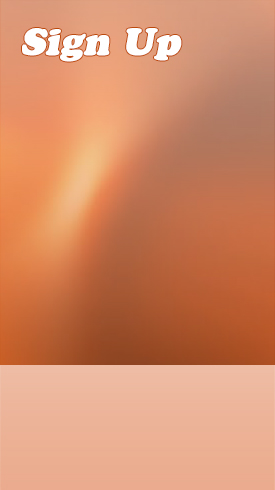
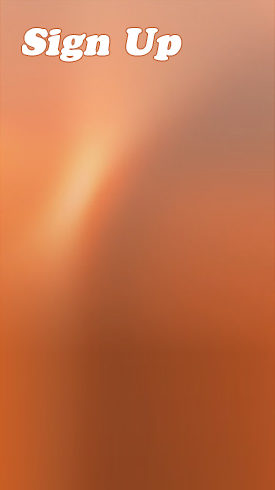
uodated

Changed region(s): [[0.0, 0.7347, 1.0, 1.0]]

diff --git a/wartisan/index.html b/wartisan/index.html
@@ -11,8 +11,12 @@
 
 <body>
 <div id="main">
-	<div id="container">
+	<div class="container">
     	<div class="header"></div> 
+    </div>
+    <div class="scenter">
+	<div style="width:100%;height:10px;"></div>
+    <div class="container">
         <div class="content">
         	<div class="conleft">
                 
@@ -20,7 +24,7 @@
                         <input id="submit" type="submit" name="submit" value="">
                 
                 <div class="context">
-                <p>Send us your email address and we'll sign you up for our beta program and update you with our progress.</p>
+                <p>Send us your email address and we'll sign you up for our beta program and get your feedback!</p>
                 <p><i>Please see our <a href="privacy.html">privacy policy</a> to learn how we store your information.</i></p>
                 </div>	
             </div>
@@ -30,15 +34,66 @@
 <img style="visibility:hidden;width:0px;height:0px;" border=0 width=0 height=0 src="http://c.gigcount.com/wildfire/IMP/CXNID=2000002.0NXC/bT*xJmx*PTEzNzE4MDU*Njc3MDEmcHQ9MTM3MTgwNTQ3MTczMiZwPTE4MjU5MSZkPSZnPTImbz*5M2FmZGU3NDY1NWM*M2IyYjQz/ZTVmM2ViMmVlNjljYyZvZj*w.gif" /><object classid="clsid:D27CDB6E-AE6D-11cf-96B8-444553540000" id="Empressr_Viewer" codebase="http://download.macromedia.com/pub/shockwave/cabs/flash/swflash.cab#version=9,0,47,0" width="500" height="374.5762711864407"><param name="movie" value="http://www.empressr.com/empressrflx/Empressr_Viewer.swf?token=hdTtuWX7dtU=&loc=http://www.empressr.com/&type=Viewer" /><param name="quality" value="high" /><param name="bgcolor" value="#000000" /><param name="allowScriptAccess" value="sameDomain" /><param name="allowFullScreen" value="true" /><embed src="http://www.empressr.com/empressrflx/Empressr_Viewer.swf?token=hdTtuWX7dtU=&loc=http://www.empressr.com/&type=Viewer" quality="high" bgcolor="#000000" allowFullScreen="true" name="Empressr_Viewer" align="middle" play="true" loop="false" quality="high" allowScriptAccess="sameDomain" type="application/x-shockwave-flash" width="656" height="448" pluginspage="http://www.adobe.com/go/getflashplayer" FlashVars="gig_lt=1371805467701&gig_pt=1371805471732&gig_g=2"></embed> <param name="FlashVars" value="gig_lt=1371805467701&gig_pt=1371805471732&gig_g=2" /></object></div>
             </div>
             <div style="clear:both"></div>
-        </div>  
-        <div class="seccontent">
-        	<img src="images/index7.gif"><img src="images/index7.gif"><img src="images/index7.gif"><img src="images/index7.gif">
         </div> 
+        <div style="width:100%;height:10px;"></div>   
+        <div class="seccontent">
+            <div class='brief'>
+            <ul>
+           		<li><img src="images/index7.gif">
+                    <div class="info">
+                    <h4>Information</h4>
+                    wartisan,wartisan,wartisan,wartisan,wartisan,
+                    </div>
+                </li>
+                <li><img src="images/index8.gif">
+                     <div class="info">
+                    <h4>Information</h4>
+                    wartisan,wartisan,wartisan,wartisan,wartisan,
+                    </div>
+                </li>
+                <li><img src="images/index9.gif">
+                	 <div class="info">
+                    <h4>Information</h4>
+                    wartisan,wartisan,wartisan,wartisan,wartisan,
+                    </div>
+                </li>
+                <li><img src="images/index10.gif">
+                	 <div class="info">
+                    <h4>Information</h4>
+                    wartisan,wartisan,wartisan,wartisan,wartisan,
+                    </div>
+                </li>
+            </ul>
+            <div style="clear:both"></div>
+            </div>
+        </div> 
+        <div style="width:100%;height:10px;"></div>   
+       </div>
+    </div>
+    <div class="container">
         <div class="footer">
         	<div>Copyright © 2013 - All Rights Reserved - www.wartisan.com</div>
         </div> 
+     </div>
     </div>
 </div>
 
 </body>
 </html>
+<script language="javascript">
+var oSkin = document.getElementById('skin').getElementsByTagName('span');
+
+oSkin[0].onclick = function()
+{
+	document.body.style.background = '#232323';
+}
+oSkin[1].onclick = function()
+{
+	document.body.style.background = '#006fec';
+}
+oSkin[2].onclick = function()
+{
+	document.body.style.background = '#4ca001';
+}
+
+</script>

diff --git a/wartisan/style/css.css b/wartisan/style/css.css
@@ -1,23 +1,26 @@
 body{
-	background:url(../images/index1.gif) repeat-x;
+	background:#232323;
 	margin:0px;
 	padding:0px;
 	font-size:14px;}
 #main{
 	display:block;
-	background:url(../images/index2.jpg) no-repeat center 66px;
+	/*background:url(../images/index2.jpg) no-repeat center 66px;*/
 	text-align:center;
 	}
-#container{
+.scenter{
+	background:url(../images/index1.gif) repeat-x;
+}
+.container{
 	width:960px;
 	padding:0px;
 	margin:0 auto;
 	}
 .header{
 	height:66px;
-	background:url(../images/index3.jpg) left no-repeat;}
+	background:url(../images/index3.png) left no-repeat;}
 .content{
-	margin-top:27px;
+	margin-top:0px;
 	}
 .content .conleft{
 	float:left;
@@ -56,29 +59,66 @@ body{
 	margin:12px;
 	background:#FFF;}
 .seccontent{
-	margin-top:15px;
-	height:184px;
 	width:958px;
 	border:1px solid #cacaca;
 	background:#f1f1f1;
 	text-align:left;
+	padding:0px;
 	}
 .seccontent img{
 	border:1px solid #c5c5c5;
-	margin:11px 20px;
 	cursor:pointer;
 	outline:none;}
 .footer{
-	background:#232323;
-	height:135px;
+	height:70px;
 	text-align:left;
 	margin-top:15px;}
 .footer div{
 	padding:20px;
 	color:#FFF;
 	font-size:14px;}
+.brief{
+	clear:both;
+	padding-left:10px;
+	}
+.brief ul{
+	padding:0px;
+	margin:0px;
+	padding-left:2px;
+	margin:5px 0px 5px 0px;
+	}
+.brief ul li{
+	float:left;
+	list-style:none;
+	width:232px;
+	text-align:center;
+	}
+.info{
+	color:#555;
+	width:197px;
+	text-align: left;
+	margin:5px auto;
+	word-wrap: break-word;
+	word-break: normal; }
+h4{
+	padding:0px;
+	margin:0px;}
+#skin{
+	 position:absolute; 
+	 top:5px;
+	 right:5px;
+	 z-index:999;
+}
+#skin span{
+	display:block;
+	float:left;
+	width:10px;
+	height:10px;
+	margin:5px;
+	background:#06F;
+	cursor:pointer;}
 	
-#submit {
+#submit{
 	background: url("../images/index6.gif");
 	width: 251px;
 	height: 63px;

diff --git a/wartisan/js/index.js b/wartisan/js/index.js
@@ -38,6 +38,11 @@ window.onload = function(){
    		 '  <p>' + text +  
     	'  </p>' +
    		 '</div>';
+		 //兼容ie
+		 if (window.ActiveXObject){
+			 alert(text);
+			 return;
+		 }
 		return $(html).dialog({draggable: false,
 		 						modal: true,
 								title: "Error",
@@ -69,6 +74,13 @@ window.onload = function(){
    		 '  <p>' + text +  
    		 '  </p>' +
    		 '</div>';
+		 
+		 //兼容ie
+		 if (window.ActiveXObject){
+			 alert(text);
+			 return;
+		 }
+		 
 		return $(html).dialog({draggable: false,
 		 						modal: true,
 								title: "Thank you"});
